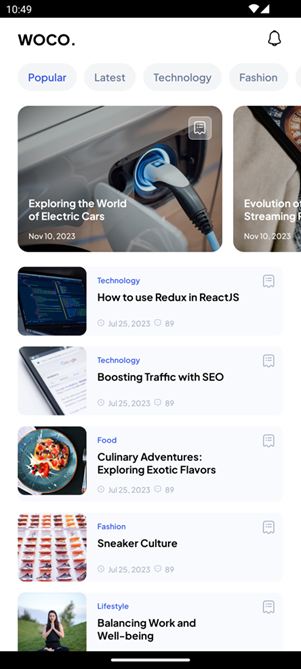
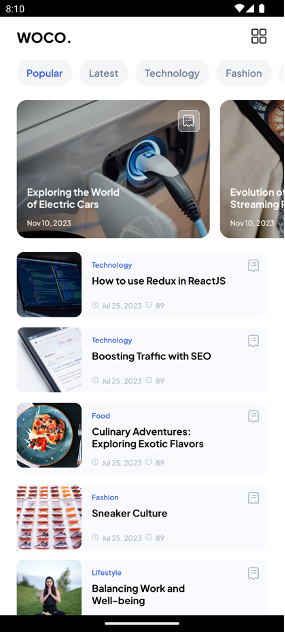
Update Bab 2 & 3

diff --git a/docs/mobile-programming/bab3.md b/docs/mobile-programming/bab3.md
@@ -6,9 +6,9 @@ sidebar_position: 4
 
 ## 3.1 Tujuan Pembelajaran
 
-1. Mahasiswa dapat memahami konsep state dan props
-2. Mahasiswa dapat mengimplementasikan state dan props
-3. Mahasiswa dapat membuat komponen dengan state dan props
+1.	Mahasiswa dapat memahami konsep state dan props
+2.	Mahasiswa dapat mengimplementasikan state dan props
+3.	Mahasiswa dapat membuat komponen dengan state dan props
 
 ## 3.2 Software yang di butuhkan
 
@@ -21,10 +21,9 @@ sidebar_position: 4
 
 ## 3.3 Props
 
-Sebagian besar komponen dapat dikustomisasi saat dibuat, dengan parameter berbeda. Parameter yang dibuat ini disebut props, props singkatan dari properties adalah cara untuk mengirimkan data dari komponen induk (parent component) ke komponen anak (child component) dalam React Native. Props dapat digunakan untuk mengirimkan data seperti string, angka, objek, array, dan lain-lain. Komponen yang menerima props bersifat read-only, artinya tidak dapat mengubah nilai prop yang diterima.
+Sebagian besar komponen dapat dikustomisasi saat dibuat, dengan parameter berbeda. Parameter yang dibuat ini disebut props, props singkatan dari properties adalah cara untuk mengirimkan data dari komponen induk (parent component) ke komponen anak (child component) dalam React Native. Props dapat digunakan untuk mengirimkan data seperti string, angka, objek, array, dan lain-lain. Komponen yang menerima props bersifat read-only, artinya tidak dapat mengubah nilai prop yang diterima. 
 
 **Contoh :**
-
 ```jsx
 import React from 'react';
 import {Image} from 'react-native';
@@ -40,16 +39,14 @@ const Bananas = () => {
 
 export default Bananas;
 ```
-
 **Penjelasan :**
 
-Pada kode diatas kurung kurawal {pic} ini menyematkan variabel pic ke dalam JSX. Kurung kurawal pada JSX berguna untuk menempatkan ekspresi JavaScript.
+Pada kode diatas kurung kurawal {pic} ini menyematkan variabel pic ke dalam JSX. Kurung kurawal pada JSX berguna untuk menempatkan ekspresi JavaScript. 
 Komponen yang kita buat sendiri juga dapat menggunakan props. Ini memungkinkan untuk membuat satu komponen yang digunakan di banyak tempat berbeda di aplikasi yang kita buat, dengan properti yang sedikit berbeda di setiap tempat dengan mengacu pada props dari fungsi yang di render.
 
 **Penggunaan Props :**
 
 1. Membuat prop di komponen anak dengan menyertakan parameter dalam fungsi komponen tersebut. Misalnya:
-
 ```jsx
 import React from 'react';
 import { View, Text } from 'react-native';
@@ -64,8 +61,7 @@ const MyComponent = (props) => {
 export default MyComponent;
 ```
 
-2. Mengirim prop dari komponen induk ke komponen anak, cukup set properti dengan nilai yang sesuai saat menggunakan komponen tersebut di komponen induk. Misalnya:
-
+2.	Mengirim prop dari komponen induk ke komponen anak, cukup set properti dengan nilai yang sesuai saat menggunakan komponen tersebut di komponen induk. Misalnya:
 ```jsx
 import React from 'react';
 import MyComponent from './MyComponent';
@@ -82,11 +78,10 @@ export default App;
 
 ## 3.4 State
 
-State adalah cara untuk menyimpan data yang berubah di dalam komponen. State memberikan komponen kemampuan untuk "mengingat" data. Ketika state diubah, komponen akan diperbarui dan tampilan akan diperbarui sesuai dengan data yang berubah dari waktu ke waktu atau berasal dari interaksi pengguna. State digunakan untuk data yang akan berubah dan mempengaruhi tampilan komponen.
+State adalah cara untuk menyimpan data yang berubah di dalam komponen. State memberikan komponen kemampuan untuk "mengingat" data. Ketika state diubah, komponen akan diperbarui dan tampilan akan diperbarui sesuai dengan data yang berubah dari waktu ke waktu atau berasal dari interaksi pengguna. State digunakan untuk data yang akan berubah dan mempengaruhi tampilan komponen. 
 Sebagai aturan umum, gunakan prop untuk mengkonfigurasi komponen saat merender. Gunakan state untuk melacak data komponen yang diharapkan berubah dari waktu ke waktu.
 
 **Contoh :**
-
 ```jsx
 import React, {useState} from 'react';
 import {Button, Text, View} from 'react-native';
@@ -121,22 +116,21 @@ const Cafe = () => {
 
 export default Cafe;
 ```
+**Penjelasan : **
 
-**Penjelasan :**
+Kode di atas terdiri dari dua komponen, yaitu "Cat" dan "Cafe". Komponen "Cat" adalah komponen yang menerima prop "name" untuk menampilkan nama kucing dan menggunakan useState Hook untuk mengatur state "isHungry" yang awalnya bernilai "true" untuk menunjukkan bahwa kucing dalam keadaan lapar. Komponen ini juga memiliki tombol yang ketika ditekan akan mengubah state "isHungry" menjadi "false", menandakan bahwa kucing telah diberi makan. Tombol tersebut hanya dapat diaktifkan jika kucing sedang lapar. Di komponen "Cafe", komponen "Cat" dua instansi dari dirender dengan memberikan nama masing-masing. 
 
-Kode di atas terdiri dari dua komponen, yaitu "Cat" dan "Cafe". Komponen "Cat" adalah komponen yang menerima prop "name" untuk menampilkan nama kucing dan menggunakan useState Hook untuk mengatur state "isHungry" yang awalnya bernilai "true" untuk menunjukkan bahwa kucing dalam keadaan lapar. Komponen ini juga memiliki tombol yang ketika ditekan akan mengubah state "isHungry" menjadi "false", menandakan bahwa kucing telah diberi makan. Tombol tersebut hanya dapat diaktifkan jika kucing sedang lapar. Di komponen "Cafe", komponen "Cat" dua instansi dari dirender dengan memberikan nama masing-masing.
-
-**Penggunaan State :**
+**Penggunaan State : **
 
 ![Alt text](./bab3_image/image.png)
 
 ## 3.5 Langkah – langkah praktikum
 
-### 1. Buka kembali project dari bab sebelumnya pada Visual Sudio Code
+### 1. Buka kembali project dari bab sebelumnya pada Visual Sudio Code.
 
 ![Alt text](./bab3_image/image-1.png)
 
-### 2. Lalu jalankan project dengan perintah berikut
+### 2. Lalu jalankan project dengan perintah berikut.
 
 ```bash
 npx react-native run-android
@@ -146,7 +140,7 @@ npx react-native run-android
 
 ![Alt text](./bab3_image/image-2.png)
 
-### 4. Buat file baru pada folder project dengan nama data.js lalu masukkan kode berikut
+### 4. Buat file baru pada folder project dengan nama data.js lalu masukkan kode berikut.
 
 ```js
 export const CategoryList = [
@@ -287,7 +281,7 @@ export const BlogList = [
 ];
 ```
 
-### 5. Untuk membuat State, perlu mengimport useState dari React. Ubah import pada App.js menjadi seperti kode dibawah ini
+### 5. Untuk membuat State, perlu mengimport useState dari React. Ubah import pada App.js menjadi seperti kode dibawah ini.
 
 ```jsx
 import React, {useState} from 'react';
@@ -307,7 +301,7 @@ import { fontType, colors } from './src/theme';
 npm i react-native-fast-image
 ```
 
-### 8. Lalu buat komponen untuk ListHorizontal seperti kode berikut
+### 8. Lalu buat komponen untuk ListHorizontal seperti kode berikut.
 
 ```jsx
 import {StyleSheet, Text, View, FlatList, TouchableOpacity} from 'react-native';
@@ -415,7 +409,7 @@ const itemHorizontal = StyleSheet.create({
 });
 ```
 
-### 9. Lalu buat komponen ItemSmall seperti kode berikut
+### 9. Lalu buat komponen ItemSmall seperti kode berikut.
 
 ```jsx
 import {StyleSheet, Text, View} from 'react-native';
@@ -516,25 +510,24 @@ const styles = StyleSheet.create({
 });
 ```
 
-### 10. Tambahkan juga file baru dengan nama index.js di dalam folder _components_
+### 10.	Tambahkan juga file baru dengan nama index.js di dalam folder _components_.
 
 ![Alt text](./bab3_image/image-4.png)
 
-### 11. Masukkan kode berikut pada index.js tersebut
-
+### 11.	Masukkan kode berikut pada index.js tersebut
 ```jsx
 import ItemSmall from './ItemSmall'
 import ListHorizontal from './ListHorizontal'
 export {ItemSmall, ListHorizontal}
 ```
 
-### 12. Panggil komponen ItemSmall dan ListHorizontal yang sudah dibuat tadi pada bagian _import_ App.js
+### 12.	Panggil komponen ItemSmall dan ListHorizontal yang sudah dibuat tadi pada bagian _import_ App.js
 
 ```jsx
 import { ListHorizontal, ItemSmall } from './src/components';
 ```
 
-### 13. Selanjutnya buat komponen ItemCategory diluar komponen App, seperti kode berikut
+### 13.	Selanjutnya buat komponen ItemCategory diluar komponen App, seperti kode berikut.
 
 ```jsx
 const ItemCategory = ({item, onPress, color}) => {
@@ -548,7 +541,7 @@ const ItemCategory = ({item, onPress, color}) => {
 };
 ```
 
-### 14. Lalu buat juga komponen FlatListCategory dibawah ItemCategory seperti kode berikut
+### 14.	Lalu buat juga komponen FlatListCategory dibawah ItemCategory seperti kode berikut.
 
 ```jsx
 const FlatListCategory = () => {
@@ -577,7 +570,7 @@ const FlatListCategory = () => {
 };
 ```
 
-### 15. Ubah komponen dari ListBlog yang sudah dibuat pada pertemuan sebelumnya menjadi seperti berikut
+### 15.	Ubah komponen dari ListBlog yang sudah dibuat pada pertemuan sebelumnya menjadi seperti berikut.
 
 ```jsx
 const ListBlog = () => {
@@ -598,7 +591,7 @@ const ListBlog = () => {
 };
 ```
 
-### 16. Ubah juga komponen App menjadi seperti berikut
+### 16.	Ubah juga komponen App menjadi seperti berikut.
 
 ```jsx
 export default function App() {
@@ -617,7 +610,7 @@ export default function App() {
 }
 ```
 
-### 17. Terakhir ubah stylesheet seperti kode berikut
+### 17.	Terakhir ubah stylesheet seperti kode berikut.
 
 ```jsx
 const styles = StyleSheet.create({
@@ -669,7 +662,7 @@ const category = StyleSheet.create({
 });
 ```
 
-### 18. Jika sudah hasilnya seperti gambar berikut
+### 18.	Jika sudah hasilnya seperti gambar berikut
 
 ![Alt text](./bab3_image/image-5.png)
 

diff --git a/docs/mobile-programming/bab2.md b/docs/mobile-programming/bab2.md
@@ -594,7 +594,7 @@ npx react-native run-android
 ```jsx
 import React from 'react';
 import {ScrollView, StyleSheet,  Text, View, Image, ImageBackground} from 'react-native';
-import {Notification, Receipt21, Clock, Message} from 'iconsax-react-native';
+import {Element3, Receipt21, Clock, Message} from 'iconsax-react-native';
 import { fontType, colors } from './src/theme';
 ```
 
@@ -606,7 +606,7 @@ export default function App() {
     <View style={styles.container}>
       <View style={styles.header}>
         <Text style={styles.title}>WOCO.</Text>
-        <Notification color={colors.black()} variant="Linear" size={24} />
+        <Element3 color={colors.black()} variant="Linear" size={24} />
       </View>
       <View style={styles.listCategory}>
         <ScrollView horizontal showsHorizontalScrollIndicator={false}>
@@ -1202,4 +1202,4 @@ const itemHorizontal = StyleSheet.create({
 
 ## 2.6 Tugas Praktikum
 
-Silahkan buat halaman awal dengan menerapkan komponen pada aplikasi masing-masing sesuai tema yang sudah ditentukan!
+Silahkan buat halaman awal dengan menerapkan komponen pada aplikasi masing-masing sesuai tema yang sudah ditentukan! Dan upload tugas tersebut ke github!

diff --git a/docs/mobile-programming/bab1.md b/docs/mobile-programming/bab1.md
@@ -187,4 +187,4 @@ Tunggu prosesnya hingga selesai, mungkin akan memakan waktu karena harus melakuk
 
 ## 1.5 Tugas Praktikum
 
-Silahkan buat Langkah-langkah menginstall react native seperti yang sudah dicontohkan pada saat praktikum!
+Silahkan buat Langkah-langkah menginstall react native seperti yang sudah dicontohkan pada saat praktikum! Dan upload tugas tersebut ke github!
